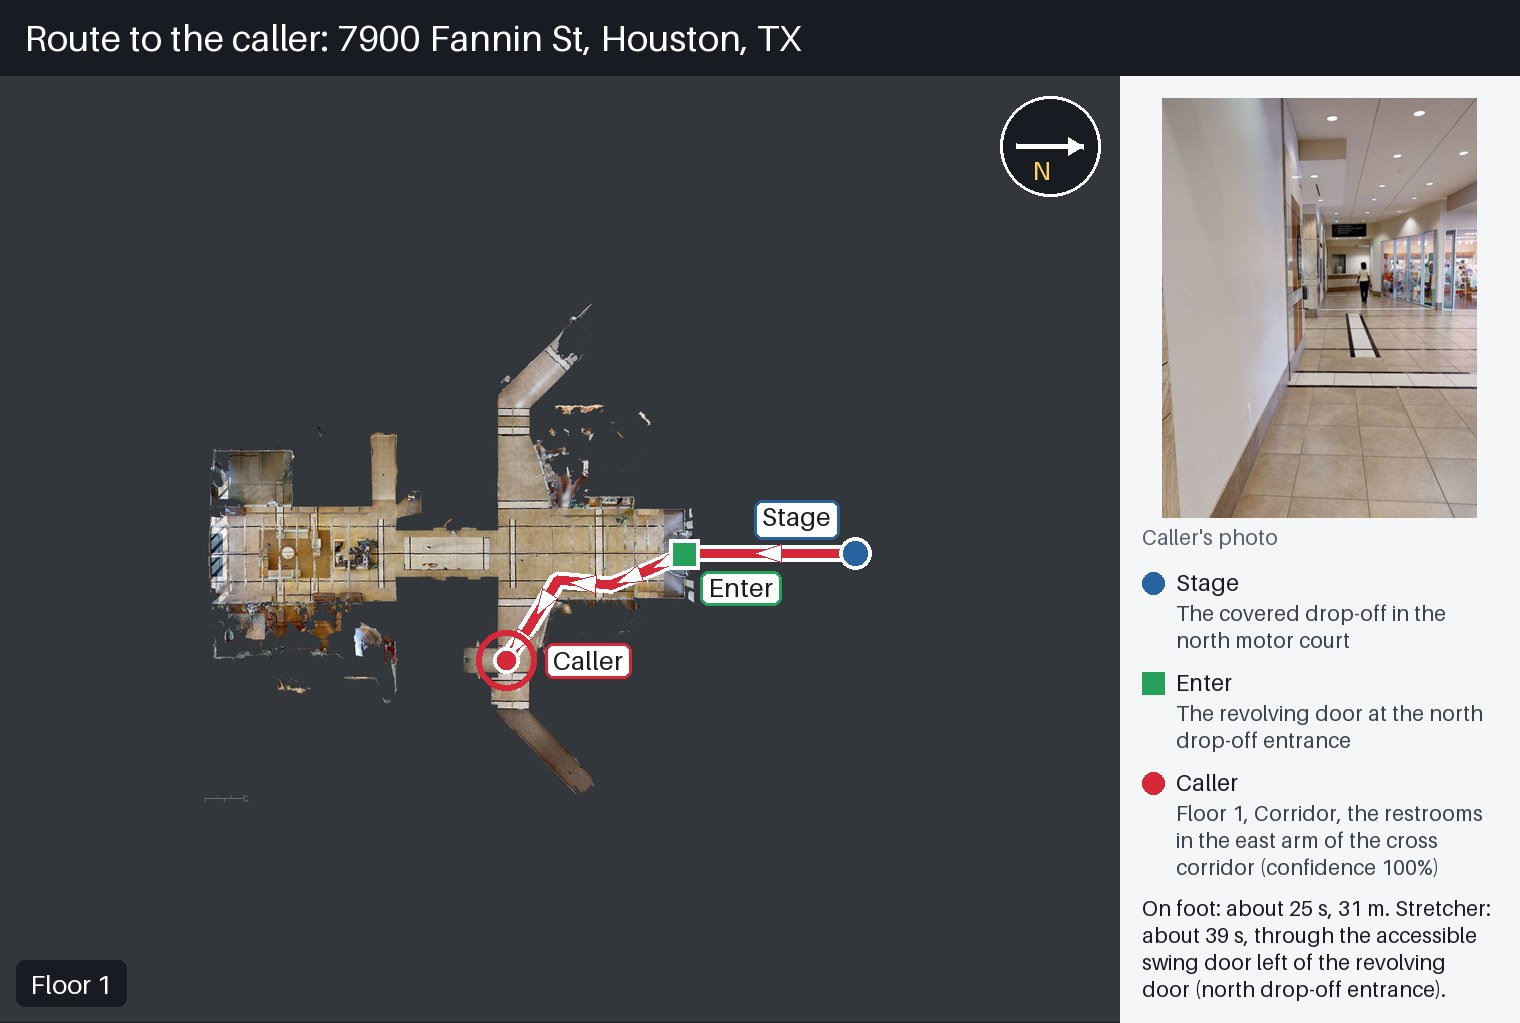
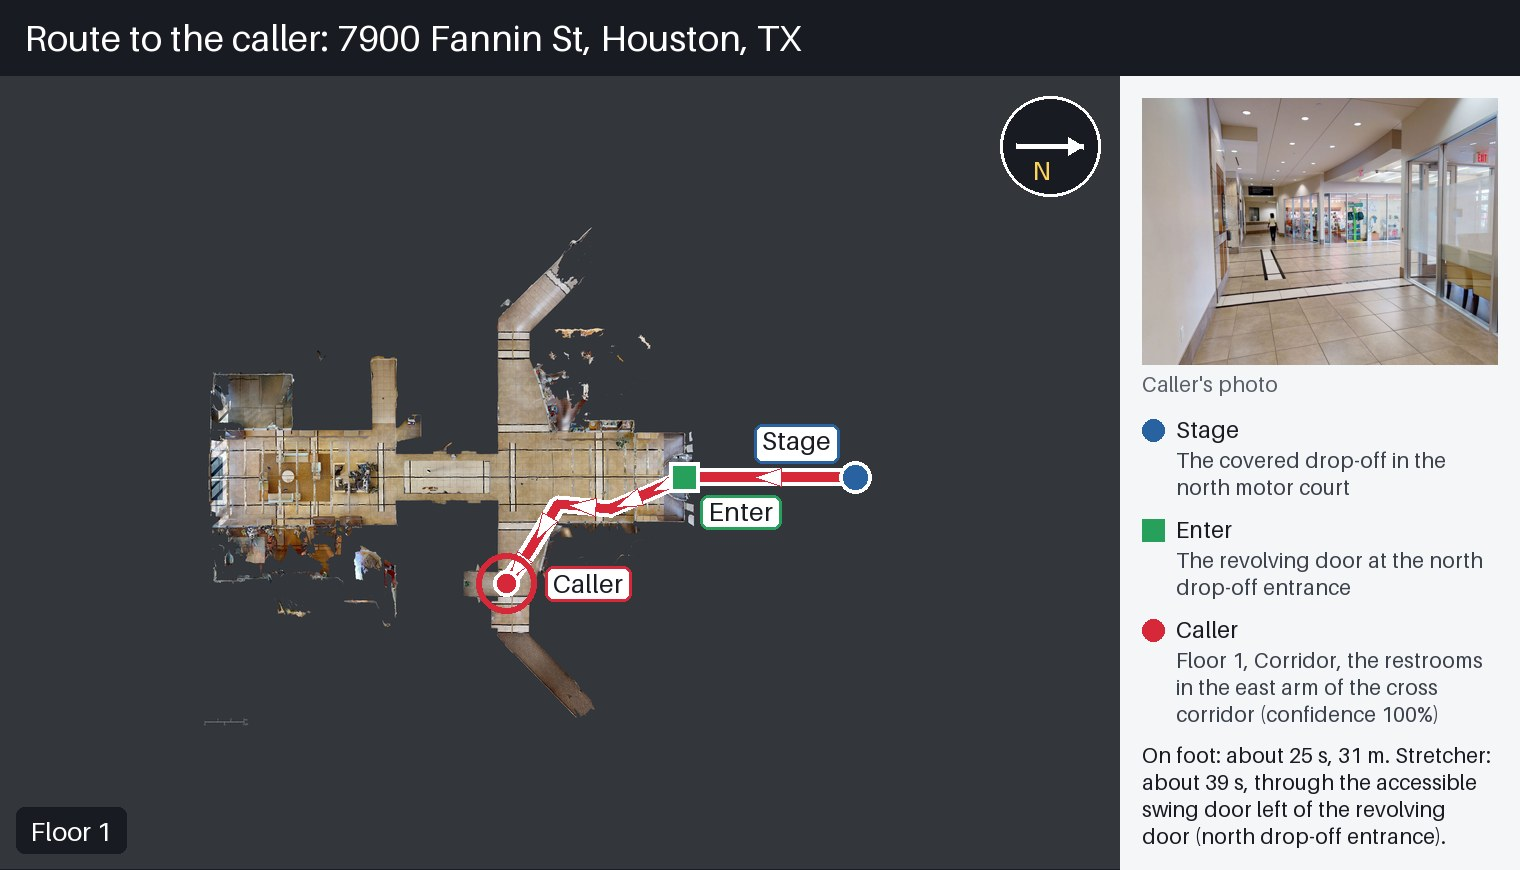
Refresh the examples with the new photos; walkthrough covers the 3D page and how to see questions
Claude-Session: https://claude.ai/code/session_01REhduB2rBsbrG9f8rMP3G4

diff --git a/live/README.md b/live/README.md
@@ -27,7 +27,8 @@ entrances, staging (env/, graph) ─────────┘    under uncerta
 | `index.py` | Builds lane B's photo index for the scan a lane A graph covers. |
 | `demo_photo.py` | Renders a stand-in caller photo from a scanned position (`--hard` for a dark, blurred, zoomed one). |
 | `route_image.py` | Draws the route to the caller on the floor plan, with the caller's photo. Every incident gets one as `route.jpg`; `demo/route_*.jpg` are two examples. |
-| `evaluate.py` | Runs a batch of incidents from rendered photos and scores position and door. |
+| `evaluate.py` | Runs a batch of incidents from rendered photos and scores position and door; `--held-out` is the fairer test. |
+| `model3d.py` | Prepares each scan's 3D model for the console's 3D route page (`app/live-3d.html`). |
 
 Nothing in `agent/` or `perception/` was changed to make this work. `app/` has
 three small changes so the 3D route view opens for any building that has a scan graph
@@ -98,8 +99,9 @@ Not connected yet:
    viewer key is tied to that name).
 2. Search for `7900 Fannin`, select it, and press **Start incident**. Type what the
    caller said and attach `demo/6550930_gbqgw9.jpg` (the lobby seen from near the restrooms) or
-   `demo/6550930_3ymmrb.jpg` (at the Suite 1200 door). For a photo the matcher is
-   unsure about, so that the agent asks questions, use `demo/6550930_3ymmrb_hard.jpg` (dim, soft and zoomed in).
+   `demo/6550930_3ymmrb.jpg` (at the Suite 1200 door). The other files in `demo/` are
+   photos at 7900 Fannin St, 12814 Willow Centre Dr (`10352309`) and 3160 Geneva St
+   (`5956257`); the first six characters after the building id are the position.
 3. The watcher terminal prints that it is running the agent. In the console, the
    incident fills in: **Destination** and **Entry & route**, the route drawn on the
    floor of the 3D scan from the door the agent chose, **Route on the floor plan** (one
@@ -107,9 +109,14 @@ Not connected yet:
    caller's photo beside the matched view with the matched points joined.
 4. If the match is ambiguous the agent's question appears in **Caller conversation**.
    Press **Open caller view** and answer it there; the agent updates its belief and
-   continues. Without an answer it gives up waiting after 90 seconds and says so.
+   continues. Without an answer it gives up waiting after 90 seconds and says so. The
+   demo photos are all matched with high confidence, so to see the questions run an
+   incident with an uncertain match instead:
+   `.venv/bin/python -m live.run --building 10352309 --simulate-match e62ehd --console`
 5. Switch to **Aerial approach** to see the staging spot and the door on the Vexcel
-   image. Open **Agent packet** for the full packet with its sources.
+   image. Press **Open 3D model with route** for the whole building as a model you can
+   turn, with the route drawn through the walls. Open **Agent packet** for the full
+   packet with its sources.
 6. Press **Approve packet locally** or **Reject**. The watcher terminal shows the agent
    finishing with that decision.
 
@@ -158,9 +165,11 @@ the team can take real photos is Rabinowitz Hall at Princeton.
 Other measurements:
 - Time per incident, photo to draft packet: 32 to 45 s on this CPU, nearly all of it
   photo matching. Lane B reports about 2.5 s per photo on a laptop with a GPU.
-- With a dim, soft, zoomed-in photo (`demo/6550930_3ymmrb_hard.jpg`) an earlier version
-  of that photo was matched at 53%; the agent asked three questions (furniture, kind of
-  room, elevator doors in view) and ended on the right position at 81%.
+- A much darker and blurrier photo of the Suite 1200 door (close to a blank frame) was
+  matched at 53%; the agent asked three questions (furniture, kind of room, elevator
+  doors in view) and ended on the right position at 81%. The current
+  `demo/6550930_3ymmrb_hard.jpg` is dim and soft but shows the suite sign, and is
+  matched outright.
 - A sweep of 31 incidents with the position given, across all seven buildings, had no
   crash, no audit failure, and the same door as `best_entry` in every packet.
 - No packet in any run had a line without a source. That check is weaker than it sounds:
